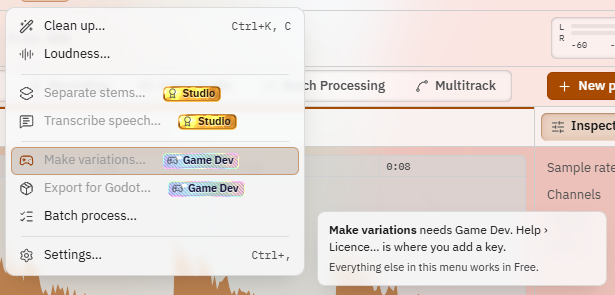
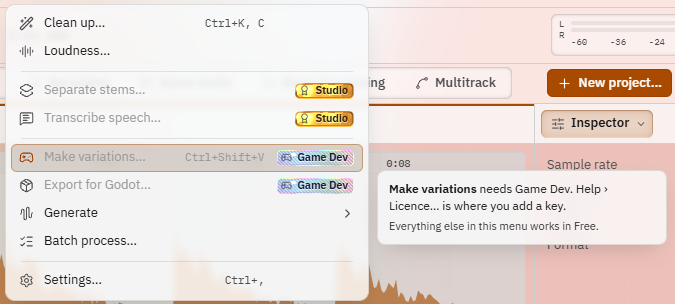
Show the edition badges right-aligned at the end of their menu rows
The badge now ends each menu row in one column, after the shortcut,
so the picture of the edition badges is redrawn to match.

diff --git a/README.md b/README.md
@@ -51,7 +51,7 @@ A rich tooltip holding a small table:
 
 Edition badges in a menu, with the reason in a hint:
 
-![A light menu where two items carry a Studio badge and two a Game Dev badge, with a hint explaining that Make variations needs Game Dev](docs/images/edition-badges.png)
+![A light menu where two items carry a Studio badge and two a Game Dev badge at the end of the row, with a hint explaining that Make variations needs Game Dev](docs/images/edition-badges.png)
 
 ## Apps that use rustyGubbins
 
